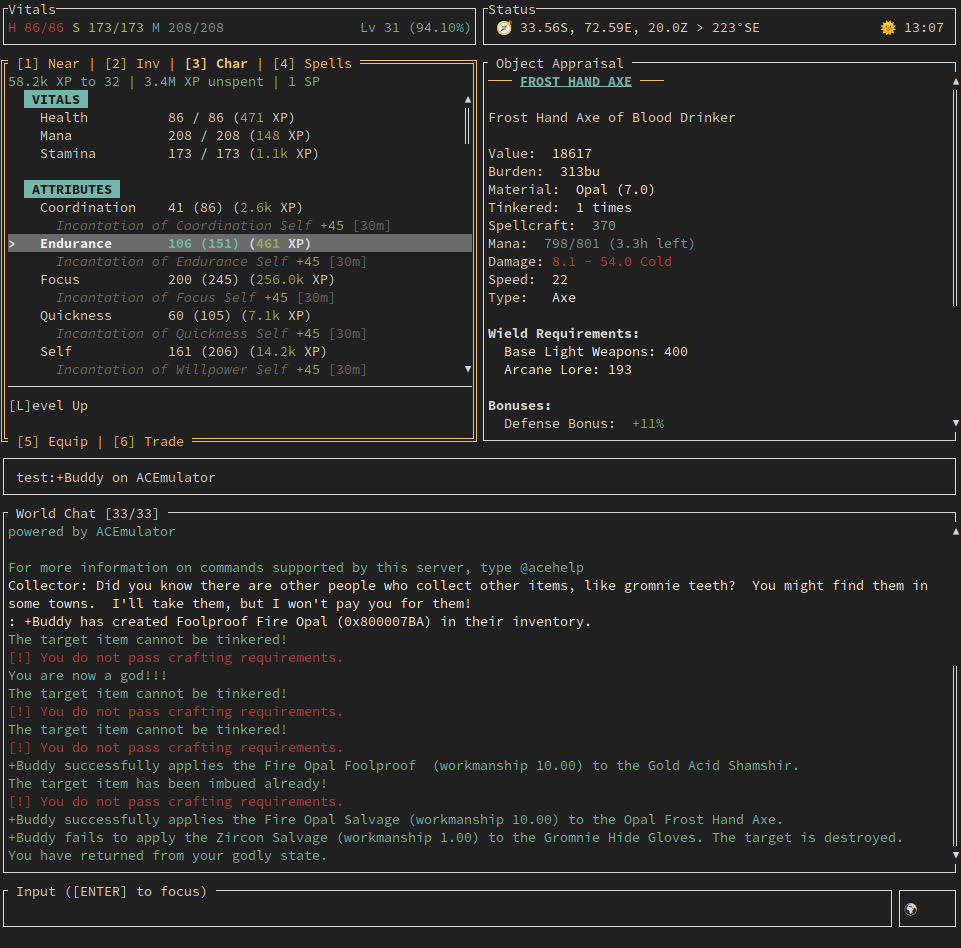
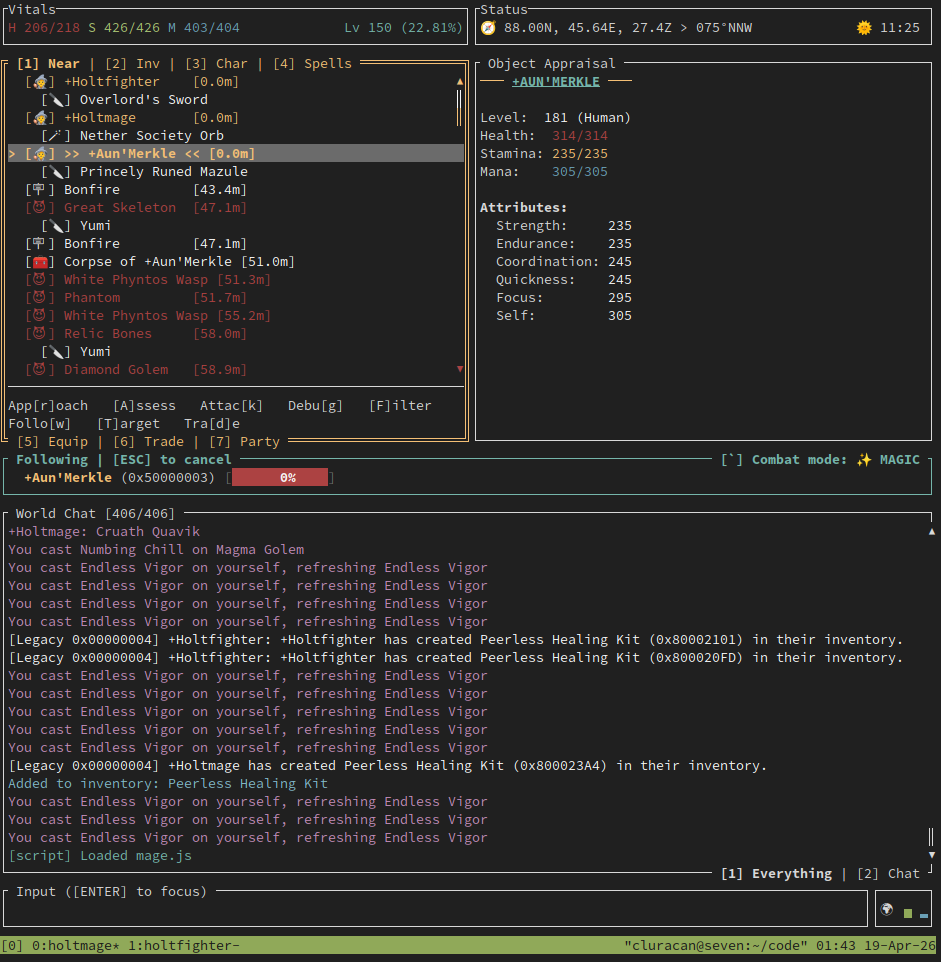
update readme

Changed region(s): [[0.0, 0.0, 1.0, 1.0], [0.8937, 0.0, 1.0, 0.3365]]

diff --git a/README.md b/README.md
@@ -116,7 +116,10 @@ Custom scripts can be stored in `EXTRACT_DIR/scripts/` (must be writeable).
 3. Launch the binary from the extracted folder:
 
 ```bash
+# see help
 ./holtburger-cli --help
+# connect
+./holtburger-cli -s SERVER_ADDRESS:PORT -a ACCOUNT_NAME -P PASSWORD
 ```
 
 Custom scripts can be stored in `EXTRACT_DIR/scripts/` (must be writeable).
@@ -126,7 +129,10 @@ Custom scripts can be stored in `EXTRACT_DIR/scripts/` (must be writeable).
 Download the flatpak from releases then run `flatpak install ./holtburger-cli.flatpak`.
 
 ```bash
+# see help
 flatpak run io.github.merklejerk.holtburger-cli --help
+# connect
+flatpak run io.github.merklejerk.holtburger-cli -s SERVER_ADDRESS:PORT -a ACCOUNT_NAME -P PASSWORD
 ```
 
 By default the Flatpak bundle sets `SCRIPT_DIR` to the writable per-app data tree inside the sandbox (`/var/data/holtburger/scripts`, which Flatpak maps to `~/.var/app/$FLATPAK_ID/data/holtburger/scripts` on the host). You can store custom scripts there.
@@ -138,7 +144,10 @@ By default the Flatpak bundle sets `SCRIPT_DIR` to the writable per-app data tre
 3. Launch the binary from the extracted folder:
 
 ```bash
+# see help
 ./holtburger-cli --help
+# connect
+./holtburger-cli -s SERVER_ADDRESS:PORT -a ACCOUNT_NAME -P PASSWORD
 ```
 
 Custom scripts can be stored in `EXTRACT_DIR/scripts/` (must be writeable).
@@ -158,7 +167,11 @@ cargo build --release
 For day-to-day development, run the TUI through Cargo:
 
 ```bash
+# see help
 cargo run --bin tui -- --help
+# connect
+cargo run --bin tui -- -s SERVER_ADDRESS:PORT -a ACCOUNT_NAME -P PASSWORD
+# connect
 ```
 
 The source tree uses `./scripts/` as the local script directory by default. Local scripts, script data, and per-script config live under that writable directory unless you override `SCRIPT_DIR`.
@@ -240,16 +253,6 @@ At runtime, the frontend constructs a `holtburger-content::ContentRepository` fr
     *   **Windows**: `%APPDATA%\merklejerk\holtburger\data\dats\`
 
 > **Note:** Official DAT files no longer need to be renamed when passed to tooling. Runtime startup no longer scans raw DAT files; use `dat2hba` to produce a namespaced `assets.hba` bundle first.
-
-### Benchmarking
-
-For archive performance checks, run:
-
-```bash
-cargo bench -p holtburger-dat --bench provider_bench -- --noplot
-```
-
-That benchmark covers provider reads plus synthetic multi-namespace HBA lookup and full index iteration.
 
 ## License
 
